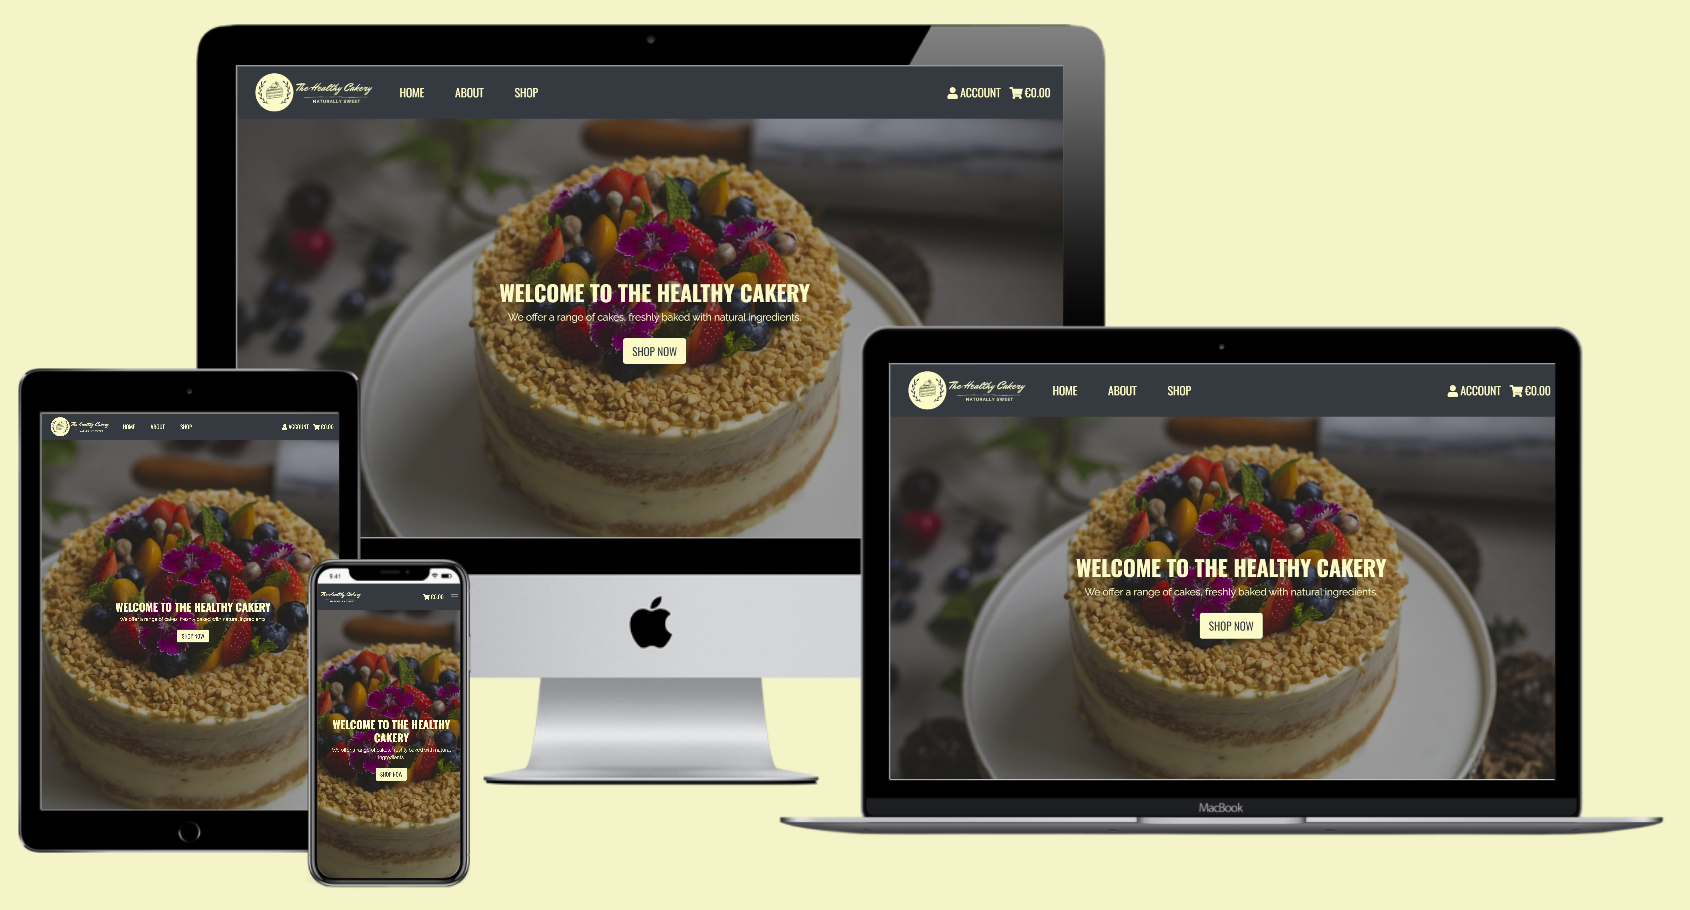
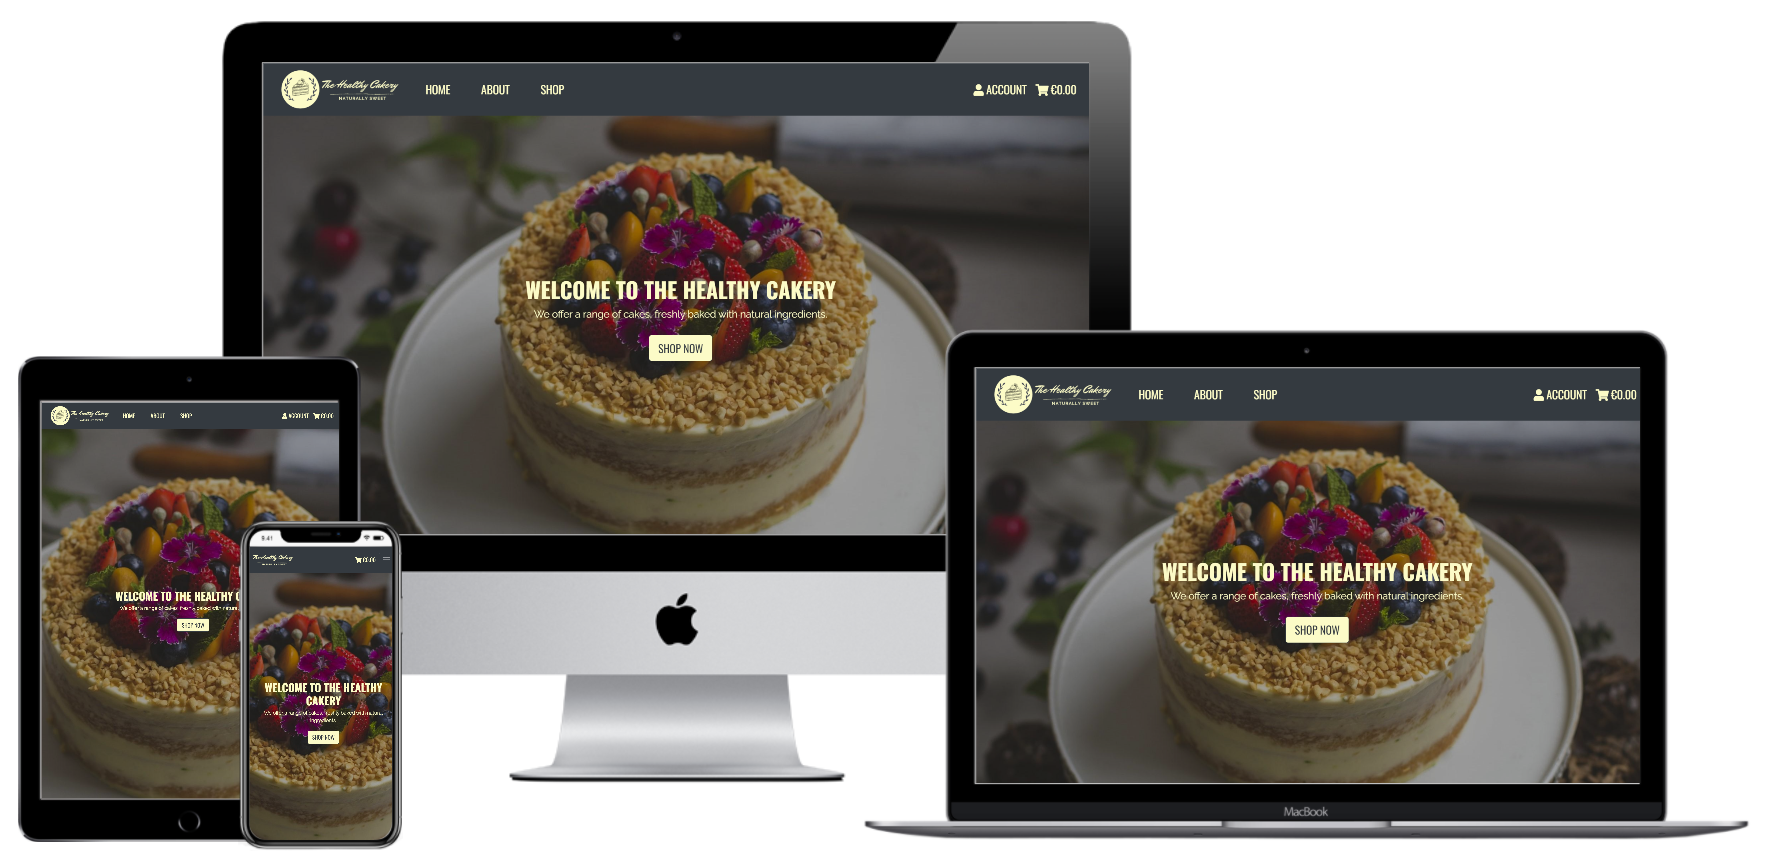
Amended text in ReadMe file, replaced responsive design image and uploaded Mockups

diff --git a/README.md b/README.md
@@ -159,25 +159,25 @@ Requirements:
 
 2. Within the IDE, open the folder that contains the repository.
 
-3. Create a .env file containing the following credentials
+3. Create a .env file containing the following credentials:
 
-os.environ["SECRET_KEY"] = "SECRET_KEY"
+    os.environ["SECRET_KEY"] = "SECRET_KEY"
 
-os.environ["STRIPE_PUBLIC_KEY"] = "STRIPE_PUBLIC_KEY"
+    os.environ["STRIPE_PUBLIC_KEY"] = "STRIPE_PUBLIC_KEY"
 
-os.environ["STRIPE_SECRET_KEY"] = "STRIPE_SECRET_KEY"
+    os.environ["STRIPE_SECRET_KEY"] = "STRIPE_SECRET_KEY"
 
-os.environ["STRIPE_WH_SECRET"] = "STRIPE_WH_SECRET"
+    os.environ["STRIPE_WH_SECRET"] = "STRIPE_WH_SECRET"
 
-os.environ["DATABASE_URL"] = "DATABASE_URL"
+    os.environ["DATABASE_URL"] = "DATABASE_URL"
 
-os.environ["AWS_ACCESS_KEY_ID"] = "AWS_ACCESS_KEY_ID"
+    os.environ["AWS_ACCESS_KEY_ID"] = "AWS_ACCESS_KEY_ID"
 
-os.environ["AWS_SECRET_ACCESS_KEY"] = "AWS_SECRET_ACCESS_KEY"
+    os.environ["AWS_SECRET_ACCESS_KEY"] = "AWS_SECRET_ACCESS_KEY"
 
-os.environ["EMAIL_HOST_PASS"] = "EMAIL_HOST_PASS"
+    os.environ["EMAIL_HOST_PASS"] = "EMAIL_HOST_PASS"
 
-os.environ["EMAIL_HOST_USER"] = "EMAIL_HOST_USER"
+    os.environ["EMAIL_HOST_USER"] = "EMAIL_HOST_USER"
 
 4. Install the required packages by running the command `pip -r requirements.txt`
 
@@ -191,7 +191,6 @@ The business concept of my project was inspired by an existing food business cal
 In this project, I implemented part of the code learnt of Code Institute's mini e-commerce project, but I refactored it to fulfill the functionality intended for the Healthy Cakery website.
 
 ### Content
-- Some code implemented
 - Some of the text in the "About" section was extracted from [CupCakeryNYC](http://www.cupcakerynyc.com/)
 - Some of the cake descriptions were extracted from [Xocolat&More](https://www.xocolatandmore.com/) and translated into the English language.
 
